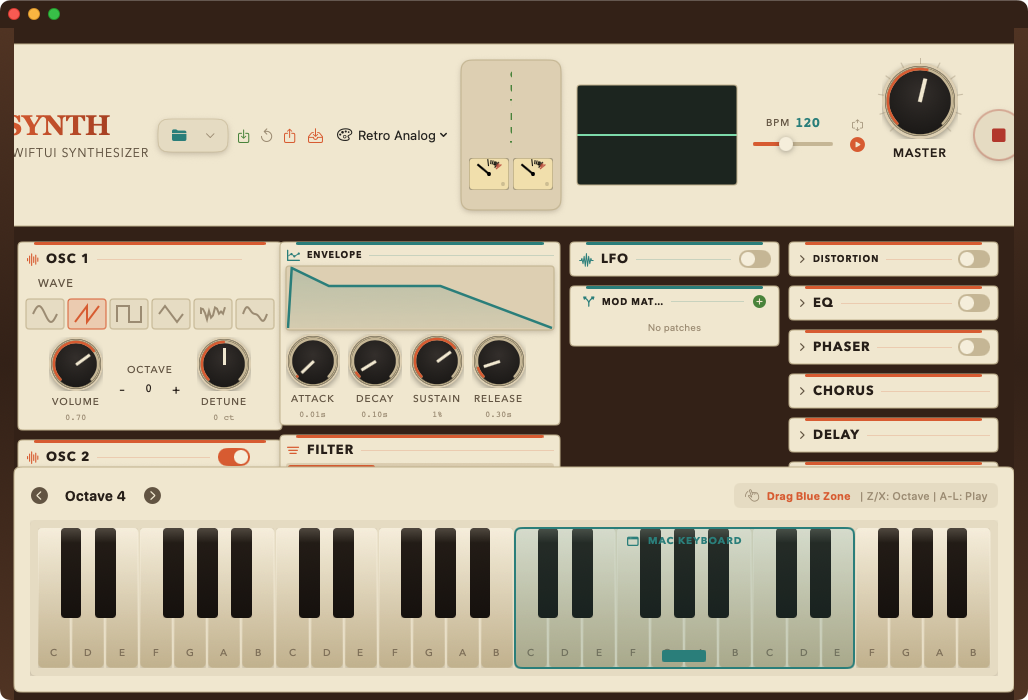
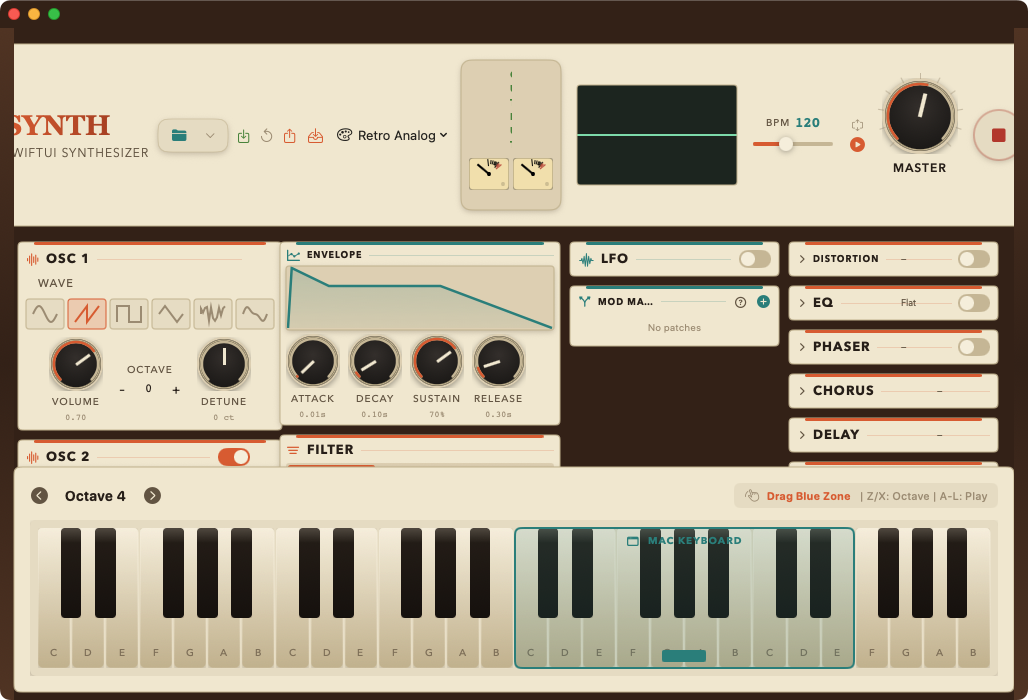
test(layout): 6 record the compact grid and three skins
controlsSection at 968 pt is 509 / 505 / 510 pt, down from 893. Screenshots cover Baseline, Dark Studio, and Retro Analog at 1000×700 (Retro 1028 for the wood cheeks), with the sequencer closed and open. The effect preset menu sits on the header rule so slot titles stay intact. Cutoff and resonance modulation stay global, taken from the loudest voice.

diff --git a/Synt_swiftUI/Views/Components/FXSlotCard.swift b/Synt_swiftUI/Views/Components/FXSlotCard.swift
@@ -80,8 +80,6 @@ struct FXSlotCard<Menu: View, Content: View>: View {
             .accessibilityLabel(title)
             .accessibilityValue(showsBody ? "expanded" : "collapsed")
 
-            menu()
-
             if let enabled {
                 ThemeToggle(isOn: Binding(
                     get: { enabled.wrappedValue },
@@ -91,6 +89,11 @@ struct FXSlotCard<Menu: View, Content: View>: View {
                     }
                 ))
             }
+        }
+        .overlay(alignment: .trailing) {
+            // Sits on the header rule, so the column stays as wide as the knobs.
+            menu()
+                .padding(.trailing, enabled == nil ? 0 : 36)
         }
     }
 }

diff --git a/Synt_swiftUI/Views/Components/FXPresetMenu.swift b/Synt_swiftUI/Views/Components/FXPresetMenu.swift
@@ -57,13 +57,12 @@ struct FXPresetMenu: View {
                 .foregroundColor(theme.textDim)
                 .lineLimit(1)
                 .truncationMode(.tail)
-                .frame(width: 44, alignment: .trailing)
+                .frame(maxWidth: 48, alignment: .trailing)
         }
         .menuStyle(.borderlessButton)
         .menuIndicator(.hidden)
         .controlSize(.small)
-        .frame(width: 52, alignment: .trailing)
-        .layoutPriority(-1)
+        .frame(maxWidth: 56, alignment: .trailing)
         .help(match?.name ?? "Edited")
         .accessibilityIdentifier("fx.preset.\(kind.rawValue)")
         .accessibilityLabel("\(kindTitle) preset")

diff --git a/GROK_BUILD_TASKS_3.md b/GROK_BUILD_TASKS_3.md
@@ -186,4 +186,23 @@ xcodebuild test -project Synt_swiftUI.xcodeproj -scheme Synt_swiftUI \
 ---
 
 ## Журнал
-(заполняет Grok Build)
+
+### Высота `controlsSection`
+Замер при ширине 968 pt (окно 1000, поля прокрутки по 16). До уплотнения: **893 pt**. После четырёх колонок: Baseline **509**, Dark Studio **505**, Retro Analog **510**. Ручки 50 pt, большая 70 pt. Колонки не уже 240 / 280 / 140 / 160.
+
+### Цели матрицы и единицы
+Amount хранится как −1…1. Подпись — `formatAmount`:
+
+- Pitch OSC1, Pitch OSC2: октавы, 1.0 = 1 oct (`+0.50 oct` при 0.5).
+- Filter Cutoff: октавы среза, 1.0 = ±4 oct (`+2.0 oct` при 0.5).
+- Amplitude, PWM OSC1, PWM OSC2, Resonance, LFO Depth, Osc Mix: проценты (`+25 %` при 0.25).
+- Pan: `L 30 %` / `R 30 %` / `C 0 %`.
+- LFO Rate: множитель скорости `× 2^(2·amount)` (`×1.4 rate`).
+
+Ограничение: cutoff и resonance глобальные. Фильтр один на весь инструмент, поэтому модуляция идёт от самого громкого звучащего голоса, а не отдельно на каждый голос.
+
+### Пресеты эффектов
+Свои пресеты лежат рядом с сессией: `~/Library/Application Support/Home.Synt-swiftUI/FXPresets/<kind>.json`. В патч они не входят. Тумблер включения в пресет эффекта не входит.
+
+### Сверка
+Скриншоты окна 1000×700 (Retro 1028 из‑за деревянных щёк): `docs/design/layout_v3_{baseline,studio,retro}.png` и те же имена с `_seq` — секвенсор открыт. Кэш шрифтов, dB-шкала стрелок, LED по уровню (3 dB на сегмент), линейный drag ручек, пауза осциллографа и `.resetPatchState` на потоке рендера на месте. Полный `Synt_swiftUITests` зелёный.
